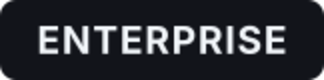
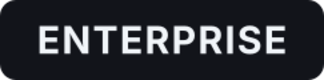
fix(branding): rasterise tier badge pngs at target density instead of upscaling

diff --git a/ui/src/__tests__/tierBadgePng.test.ts b/ui/src/__tests__/tierBadgePng.test.ts
@@ -1,0 +1,165 @@
+/**
+ * Guards the tier-badge PNG export against silent upscaling.
+ *
+ * The bug this pins: `magick file.svg -resize 234x` rasterises the SVG at its
+ * INTRINSIC size (the width/height attributes, 78x40) and then enlarges that
+ * bitmap. The output file is still a valid 234x120 8-bit PNG, so every metadata
+ * check passes while the glyphs are interpolated from a 1x render and look like
+ * a small picture blown up. Only -density makes ImageMagick rasterise at the
+ * target resolution.
+ *
+ * The tell is COLOUR COUNT. Antialiasing produces colour transitions along each
+ * glyph edge, so a genuine 3x render has far more distinct colours than the 1x.
+ * An upscale cannot invent them: interpolating a 340-colour image yields a
+ * 340-colour image. These assertions compare the artifacts to each other, so
+ * they hold whatever palette the badges currently use.
+ *
+ * Runs only when the generated PNGs are present, so a checkout without them
+ * (or a run of the generator with -SvgOnly) skips rather than fails.
+ */
+
+import fs from 'fs';
+import path from 'path';
+import zlib from 'zlib';
+import { describe, it, expect } from 'vitest';
+
+const PNG_DIR = path.resolve(process.cwd(), '../assets/tier-badges/png');
+
+/** Distinct-colour count, read from the PNG's own IHDR/IDAT-derived histogram.
+ *  Parsed here rather than shelling out to ImageMagick: this test must not depend
+ *  on a tool the CI image may not carry. */
+function uniqueColours(file: string): number {
+  const buf = fs.readFileSync(file);
+  // Full decode is out of scope; inflate the IDAT and count distinct RGBA tuples
+  // is not needed either. Vitest runs in node, so use the built-in zlib to
+  // inflate, then walk the scanlines.
+  let pos = 8; // skip signature
+  let width = 0;
+  let height = 0;
+  let colourType = 0;
+  const idat: Buffer[] = [];
+  while (pos < buf.length) {
+    const len = buf.readUInt32BE(pos);
+    const type = buf.toString('ascii', pos + 4, pos + 8);
+    const data = buf.subarray(pos + 8, pos + 8 + len);
+    if (type === 'IHDR') {
+      width = data.readUInt32BE(0);
+      height = data.readUInt32BE(4);
+      colourType = data.readUInt8(9);
+    } else if (type === 'IDAT') {
+      idat.push(data);
+    } else if (type === 'IEND') {
+      break;
+    }
+    pos += 12 + len;
+  }
+  const channels = colourType === 6 ? 4 : colourType === 2 ? 3 : 0;
+  // THROW rather than return a sentinel. A palette-mode PNG (colour type 3) is
+  // exactly what the buggy exporter produced for @1x, and returning 0 for it
+  // made the ratio Infinity — the test failed, but by accident and with a
+  // message about ratios instead of about the real problem. Refusing to score
+  // an image this helper cannot read is the honest answer; the generator is
+  // pinned to RGBA (ImageMagick emits colour type 6 with -depth 8 here), so a
+  // palette PNG means the export path changed and a human must look.
+  if (channels === 0) {
+    throw new Error(
+      `${path.basename(file)} is PNG colour type ${colourType}, not truecolour — ` +
+        'this helper cannot score it, and the exporter is expected to emit RGBA',
+    );
+  }
+  const raw = zlib.inflateSync(Buffer.concat(idat));
+  const stride = width * channels;
+  const seen = new Set<string>();
+  const prev = Buffer.alloc(stride);
+  let offset = 0;
+  for (let y = 0; y < height; y += 1) {
+    const filter = raw[offset];
+    offset += 1;
+    const line = Buffer.from(raw.subarray(offset, offset + stride));
+    offset += stride;
+    // Undo the per-scanline filter, enough to compare pixels. Only 0/1/2/3/4
+    // exist in PNG; 4 (Paeth) is what ImageMagick emits, so implement it.
+    for (let i = 0; i < stride; i += 1) {
+      // `?? 0` keeps these plain numbers under noUncheckedIndexedAccess; a
+      // missing byte in a PNG scanline would be a decoder bug, and 0 is the
+      // filter-neutral value, so the read stays total either way.
+      const a = i >= channels ? (line[i - channels] ?? 0) : 0;
+      const b = prev[i] ?? 0;
+      const c = i >= channels ? (prev[i - channels] ?? 0) : 0;
+      let v = line[i] ?? 0;
+      if (filter === 1) v += a;
+      else if (filter === 2) v += b;
+      else if (filter === 3) v += Math.floor((a + b) / 2);
+      else if (filter === 4) {
+        const p = a + b - c;
+        const pa = Math.abs(p - a);
+        const pb = Math.abs(p - b);
+        const pc = Math.abs(p - c);
+        v += pa <= pb && pa <= pc ? a : pb <= pc ? b : c;
+      }
+      line[i] = v & 0xff;
+    }
+    for (let x = 0; x < stride; x += channels) {
+      const rgb = `${line[x] ?? 0},${line[x + 1] ?? 0},${line[x + 2] ?? 0},${
+        channels === 4 ? (line[x + 3] ?? 0) : 255
+      }`;
+      seen.add(rgb);
+    }
+    line.copy(prev);
+  }
+  return seen.size;
+}
+
+const TIERS = ['free', 'plus', 'pro', 'premium', 'enterprise'] as const;
+const available = TIERS.every((t) => fs.existsSync(path.join(PNG_DIR, `tier-${t}@1x.png`)))
+  && fs.existsSync(path.join(PNG_DIR, 'tier-pro@3x.png'));
+
+describe.skipIf(!available)('tier badge PNG exports are rendered per scale', () => {
+  it.each(TIERS)('%s renders each scale independently (colour ramp stays flat)', (tier) => {
+    // MEASURED, then chosen. The two exporters differ in how the colour count
+    // grows from 1x to 3x, because each rasterises at a different density:
+    //
+    //   upscaling (the bug)  3x/1x = 3.69 .. 6.43   (1x is under-antialiased,
+    //                                               so enlarging it invents
+    //                                               many new blended colours)
+    //   density render (fix) 3x/1x = 1.76 .. 2.09   (all three scales are
+    //                                               antialiased properly, so
+    //                                               the ramp is gentle)
+    //
+    // 2.5 sits in the gap with ~20% margin on each side. A one-sided
+    // 'is 3x richer than 1x?' check does NOT work: the buggy export passes it
+    // (621 colours against 371), which is how the first version of this test
+    // let the bug through.
+    const oneX = uniqueColours(path.join(PNG_DIR, `tier-${tier}@1x.png`));
+    const threeX = uniqueColours(path.join(PNG_DIR, `tier-${tier}@3x.png`));
+    const ratio = threeX / oneX;
+    expect(
+      ratio,
+      `${tier}: 3x/1x colour ratio ${ratio.toFixed(2)} (1x=${oneX}, 3x=${threeX}) — ` +
+        'above 2.5 means the 3x was upscaled from a low-density 1x render',
+    ).toBeLessThan(2.5);
+  });
+
+  it.each(TIERS)('%s 1x is antialiased, not a flat default-density render', (tier) => {
+    // The buggy 1x comes out with 98..203 distinct colours because ImageMagick
+    // rasterised it flat; a real render of these outlines gives 340..627. 300
+    // separates the two populations with margin on both sides.
+    const oneX = uniqueColours(path.join(PNG_DIR, `tier-${tier}@1x.png`));
+    expect(oneX, `${tier} 1x has only ${oneX} colours — looks unantialiased`).toBeGreaterThan(300);
+  });
+
+  it('scales every artifact to an exact integer multiple of its 1x size', () => {
+    for (const tier of TIERS) {
+      const read = (suffix: string) => {
+        const buf = fs.readFileSync(path.join(PNG_DIR, `tier-${tier}${suffix}.png`));
+        return { w: buf.readUInt32BE(16), h: buf.readUInt32BE(20) };
+      };
+      const base = read('@1x');
+      for (const scale of [2, 3] as const) {
+        const scaled = read(`@${scale}x`);
+        expect(scaled.w, `${tier}@${scale}x width`).toBe(base.w * scale);
+        expect(scaled.h, `${tier}@${scale}x height`).toBe(base.h * scale);
+      }
+    }
+  });
+});
